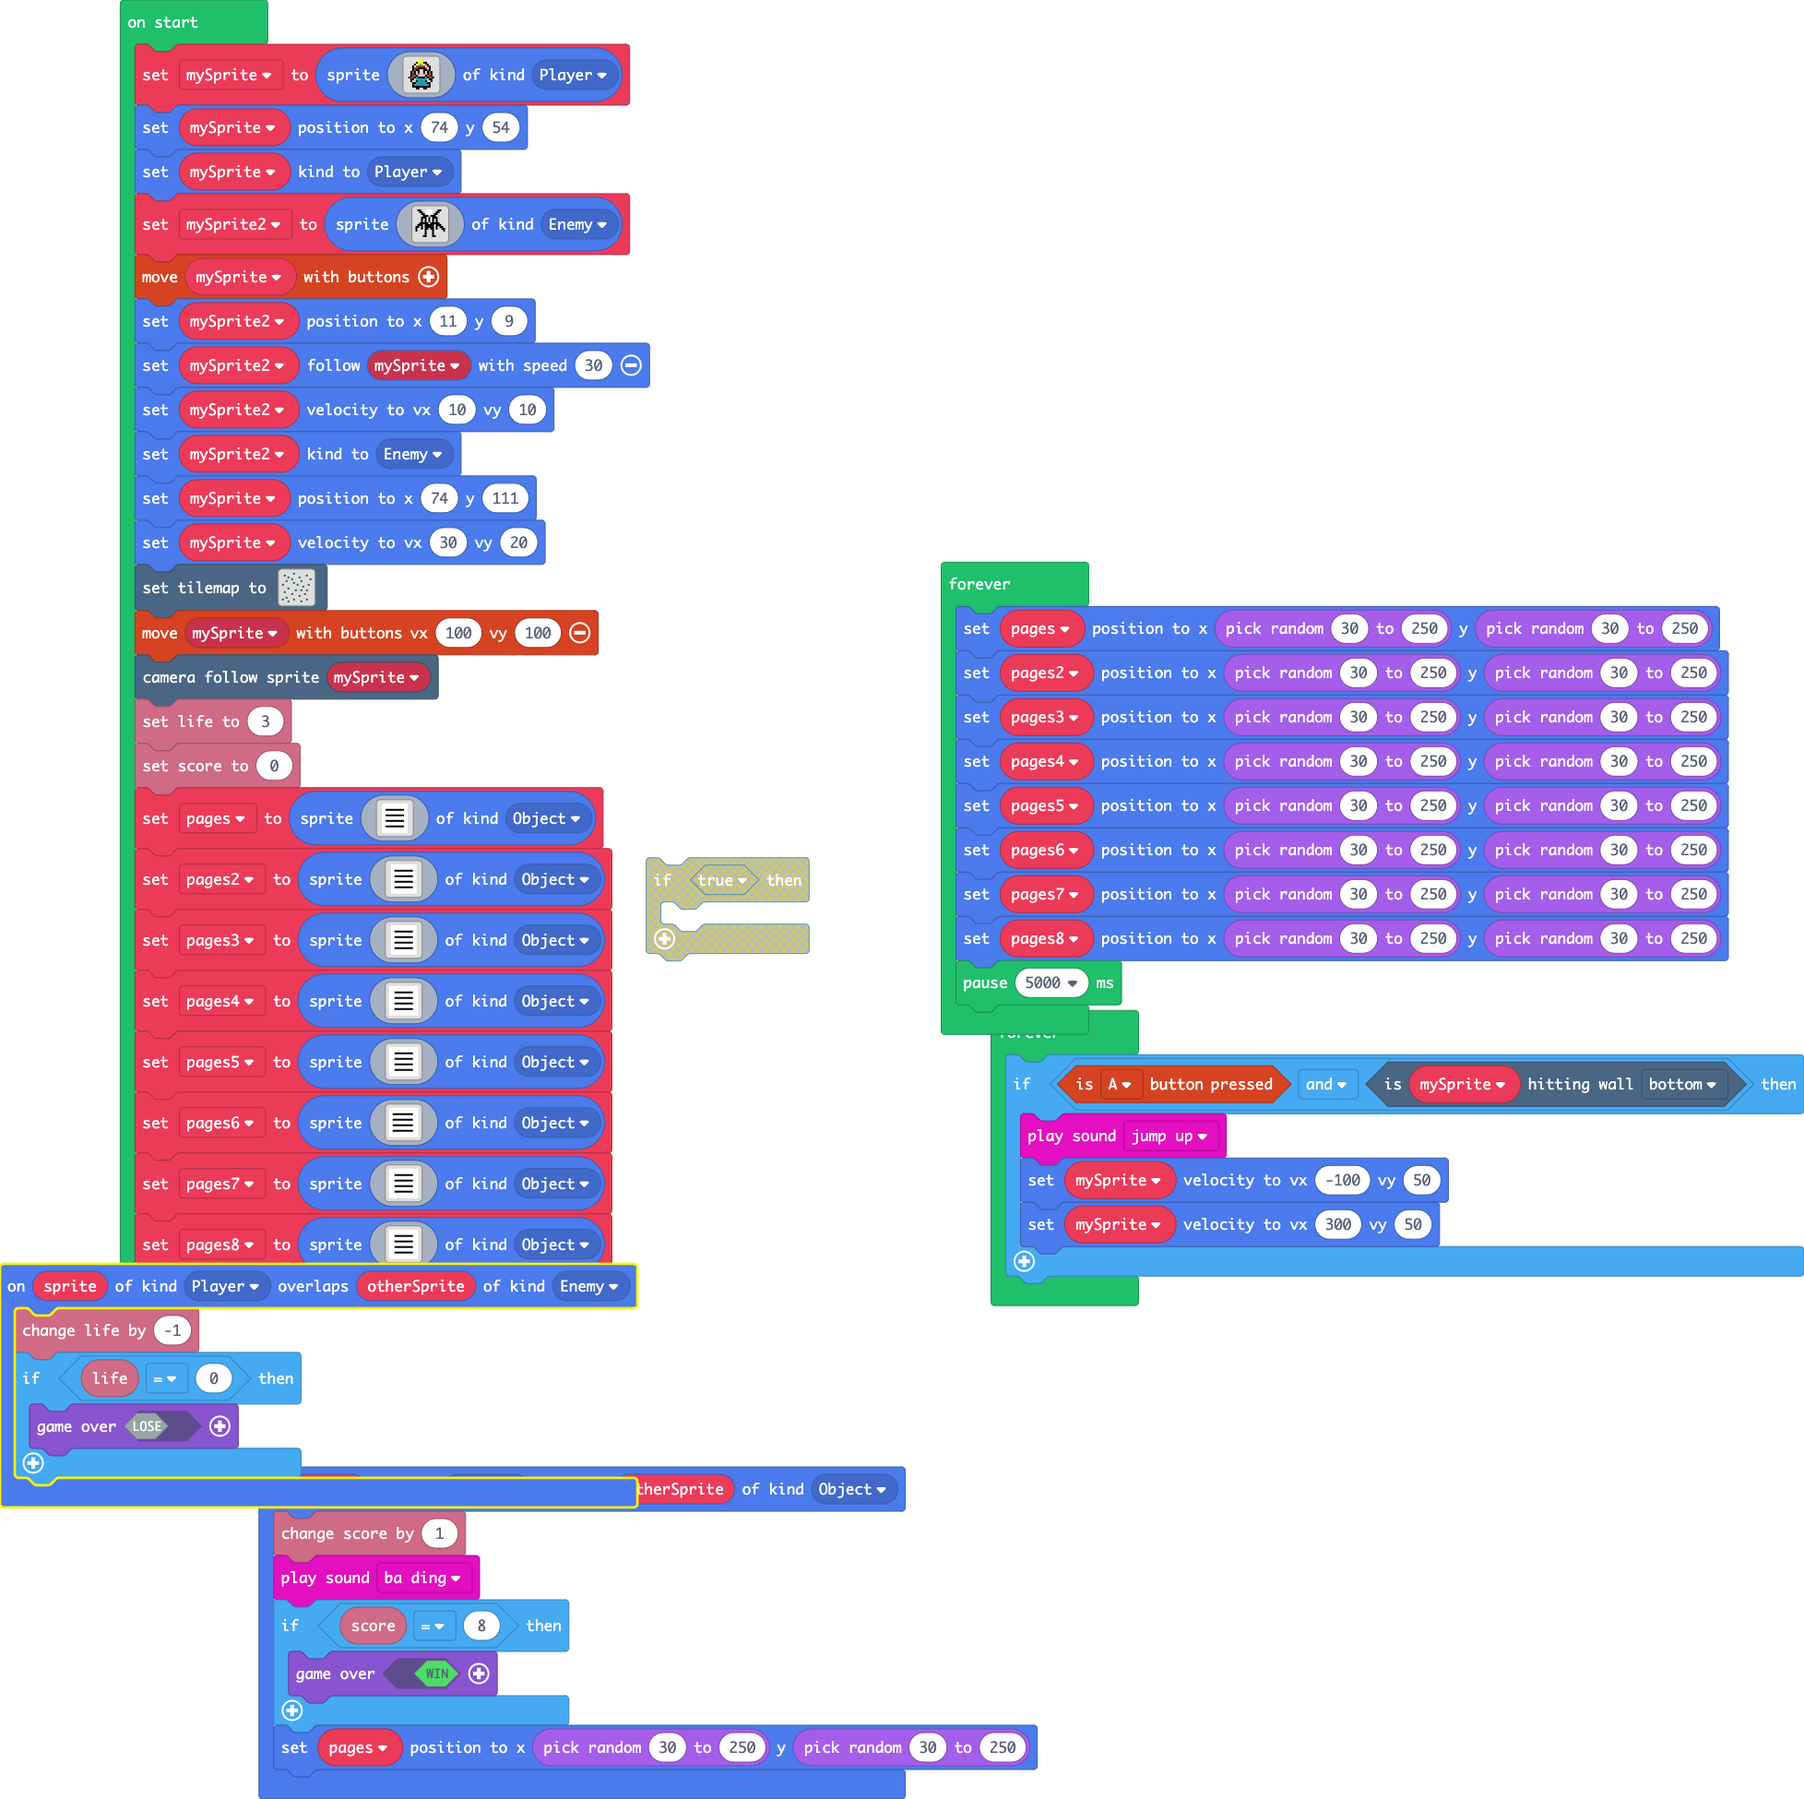
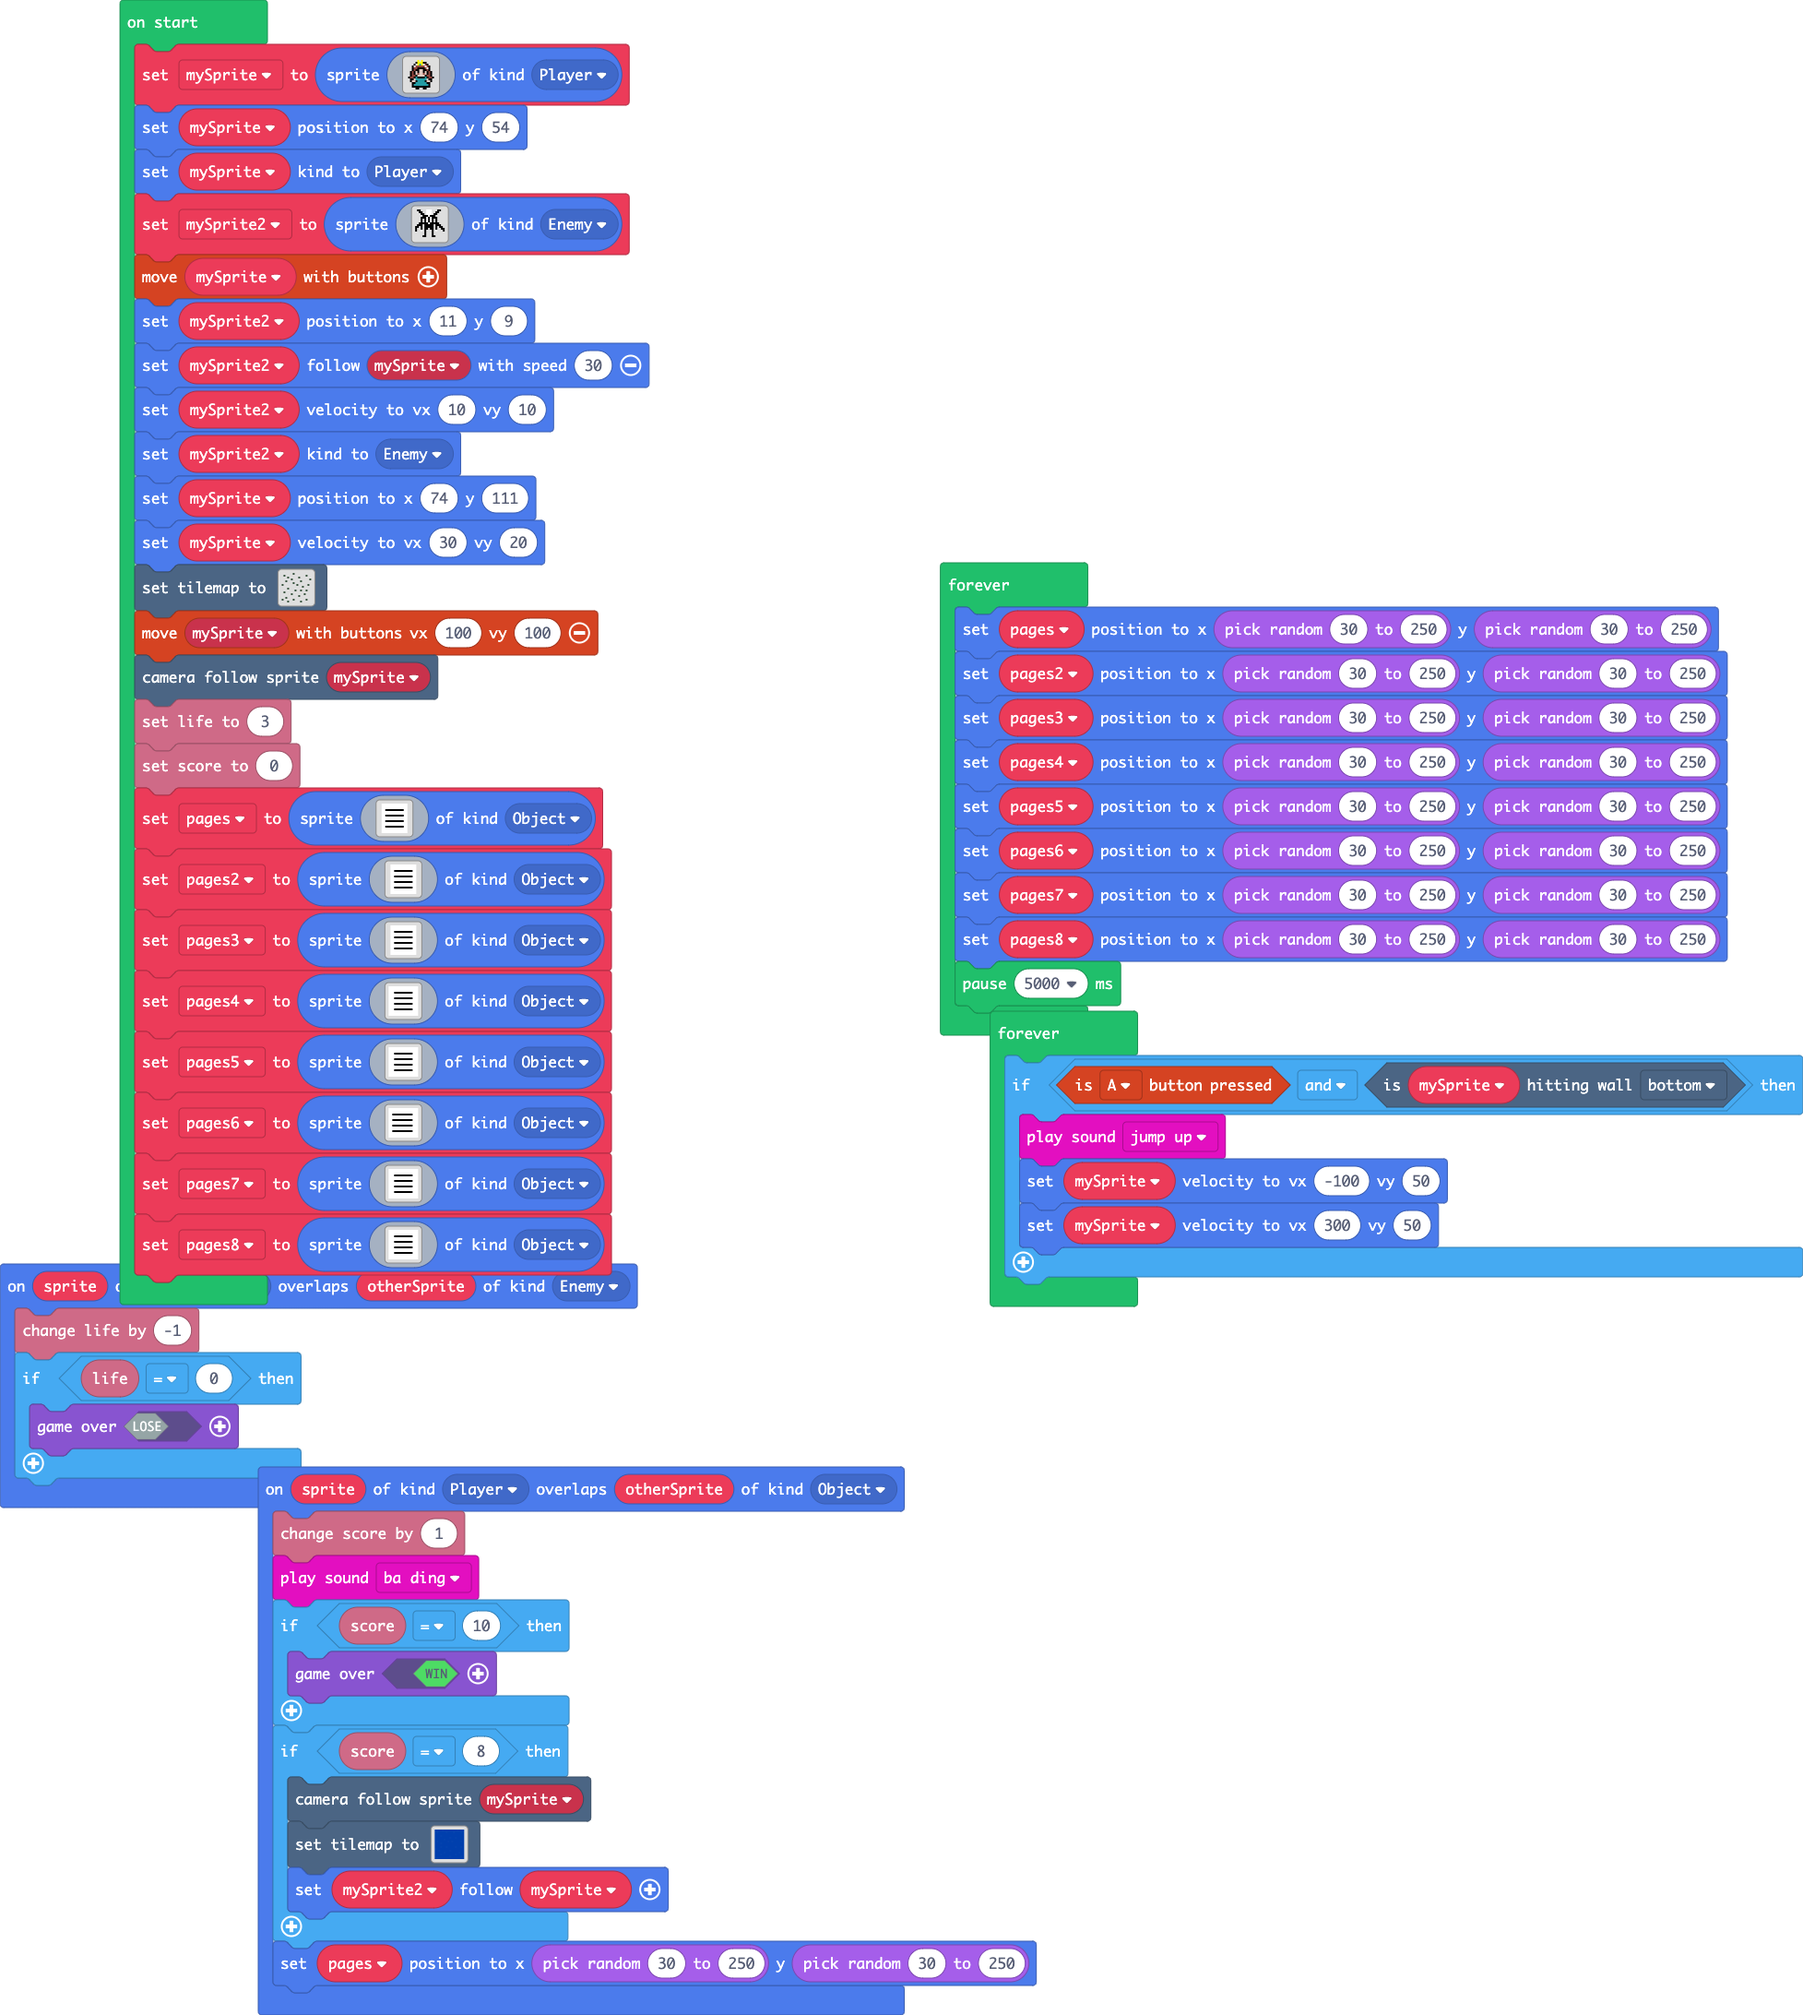
Update main.blocks, main.ts

diff --git a/main.ts b/main.ts
@@ -59,12 +59,96 @@ namespace myTiles {
 1 1 1 1 1 1 1 1 1 1 1 1 1 1 1 1 
 1 1 1 1 1 1 1 1 1 1 1 1 1 1 1 1 
 `
+    //% blockIdentity=images._tile
+    export const tile3 = img`
+. . . . . . . . . . . . . . . . 
+. . . . . . . . . . . . . . . . 
+. . . . . . . . . . . . . . . . 
+. . . . . . . . . . . . . . . . 
+. . . . . . . . . . . . . . . . 
+. . . . . . . . . . . . . . . . 
+. . . . . . . . . . . . . . . . 
+. . . . . . . . . . . . . . . . 
+. . . . . . . . . . . . . . . . 
+. . . . . . . . . . . . . . . . 
+. . . . . . . . . . . . . . . . 
+. . . . . . . . . . . . . . . . 
+. . . . . . . . . . . . . . . . 
+. . . . . . . . . . . . . . . . 
+. . . . . . . . . . . . . . . . 
+. . . . . . . . . . . . . . . . 
+`
+    //% blockIdentity=images._tile
+    export const tile4 = img`
+8 8 8 8 8 8 8 8 8 8 8 8 8 8 8 8 
+8 8 8 8 8 8 8 8 8 8 8 8 8 8 8 8 
+8 8 8 8 8 8 8 8 8 8 8 8 8 8 8 8 
+8 8 8 8 8 8 8 8 8 8 8 8 8 8 8 8 
+8 8 8 8 8 8 8 8 8 8 8 8 8 8 8 8 
+8 8 8 8 8 8 8 8 8 8 8 8 8 8 8 8 
+8 8 8 8 8 8 8 8 8 8 8 8 8 8 8 8 
+8 8 8 8 8 8 8 8 8 8 8 8 8 8 8 8 
+8 8 8 8 8 8 8 8 8 8 8 8 8 8 8 8 
+8 8 8 8 8 8 8 8 8 8 8 8 8 8 8 8 
+8 8 8 8 8 8 8 8 8 8 8 8 8 8 8 8 
+8 8 8 8 8 8 8 8 8 8 8 8 8 8 8 8 
+8 8 8 8 8 8 8 8 8 8 8 8 8 8 8 8 
+8 8 8 8 8 8 8 8 8 8 8 8 8 8 8 8 
+8 8 8 8 8 8 8 8 8 8 8 8 8 8 8 8 
+8 8 8 8 8 8 8 8 8 8 8 8 8 8 8 8 
+`
+    //% blockIdentity=images._tile
+    export const tile5 = img`
+8 8 8 8 8 8 8 8 8 8 8 8 8 8 8 8 
+8 8 8 8 8 8 8 8 8 8 8 8 8 8 8 8 
+8 8 8 8 8 8 8 8 8 8 8 8 8 8 8 8 
+8 8 8 8 8 8 8 8 8 8 8 8 8 8 8 8 
+8 8 8 8 8 8 8 8 8 8 8 8 8 8 8 8 
+8 8 8 8 8 8 8 8 8 8 8 8 8 8 8 8 
+8 8 8 8 8 8 8 1 8 8 8 8 8 8 8 8 
+8 8 8 8 8 8 1 1 1 8 8 8 8 8 8 8 
+8 8 8 8 8 8 8 1 8 8 8 8 8 8 8 8 
+8 8 8 8 8 8 8 8 8 8 8 8 8 8 8 8 
+8 8 8 8 8 8 8 8 8 8 8 8 8 8 8 8 
+8 8 8 8 8 8 8 8 8 8 8 8 8 8 8 8 
+8 8 8 8 8 8 8 8 8 8 8 8 8 8 8 8 
+8 8 8 8 8 8 8 8 8 8 8 8 8 8 8 8 
+8 8 8 8 8 8 8 8 8 8 8 8 8 8 8 8 
+8 8 8 8 8 8 8 8 8 8 8 8 8 8 8 8 
+`
 }
 sprites.onOverlap(SpriteKind.Player, SpriteKind.Object, function (sprite, otherSprite) {
     info.changeScoreBy(1)
     music.baDing.play()
-    if (info.score() == 8) {
+    if (info.score() == 10) {
         game.over(true)
+    }
+    if (info.score() == 8) {
+        scene.cameraFollowSprite(mySprite)
+        tiles.setTilemap(tiles.createTilemap(
+            hex`1000100004040404050404040404040405040404040504040404050404040504040405040404040404040404040404040404040404040405040404040404040404040404040404040404040405040405040404040404040404050404040404040404040404050404040404050405040404040504040404050404040404040404040404040404040404040404040404040404040404040405040405040404040504040504050404040404040404040404040404040404050404040404050404040404040404040404040504040404040404050404040404050404040404040405040404040404040404040404050404040404050404050404040404040404040404040404`,
+            img`
+. . . . . . . . . . . . . . . . 
+. . . . . . . . . . . . . . . . 
+. . . . . . . . . . . . . . . . 
+. . . . . . . . . . . . . . . . 
+. . . . . . . . . . . . . . . . 
+. . . . . . . . . . . . . . . . 
+. . . . . . . . . . . . . . . . 
+. . . . . . . . . . . . . . . . 
+. . . . . . . . . . . . . . . . 
+. . . . . . . . . . . . . . . . 
+. . . . . . . . . . . . . . . . 
+. . . . . . . . . . . . . . . . 
+. . . . . . . . . . . . . . . . 
+. . . . . . . . . . . . . . . . 
+. . . . . . . . . . . . . . . . 
+. . . . . . . . . . . . . . . . 
+`,
+            [myTiles.tile0,myTiles.tile1,myTiles.tile2,myTiles.tile3,myTiles.tile4,myTiles.tile5],
+            TileScale.Sixteen
+        ))
+        mySprite2.follow(mySprite)
     }
     pages.setPosition(Math.randomRange(30, 250), Math.randomRange(30, 250))
 })
@@ -75,7 +159,9 @@ sprites.onOverlap(SpriteKind.Player, SpriteKind.Enemy, function (sprite, otherSp
     }
 })
 let pages: Sprite = null
-let mySprite = sprites.create(img`
+let mySprite2: Sprite = null
+let mySprite: Sprite = null
+mySprite = sprites.create(img`
 . . . . . . 5 . 5 . . . . . . . 
 . . . . . f 5 5 5 f f . . . . . 
 . . . . f 1 5 6 5 1 e f . . . . 
@@ -95,7 +181,7 @@ let mySprite = sprites.create(img`
 `, SpriteKind.Player)
 mySprite.setPosition(74, 54)
 mySprite.setKind(SpriteKind.Player)
-let mySprite2 = sprites.create(img`
+mySprite2 = sprites.create(img`
 . f f . . . 1 1 1 . . . f f . . 
 . . f f . . 1 1 1 . . f f . . . 
 . . . f f . 1 1 1 . f f . . . . 
@@ -140,7 +226,7 @@ tiles.setTilemap(tiles.createTilemap(
 . . . . . . . . . . . . . . . . 
 . . . . . . . . . . . . . . . . 
 `,
-            [myTiles.tile0,myTiles.tile1,sprites.castle.tilePath1,sprites.castle.saplingPine,myTiles.tile2],
+            [myTiles.tile0,myTiles.tile1,sprites.castle.tilePath1,sprites.castle.saplingPine,myTiles.tile2,myTiles.tile3,myTiles.tile4,myTiles.tile5],
             TileScale.Sixteen
         ))
 controller.moveSprite(mySprite, 100, 100)
